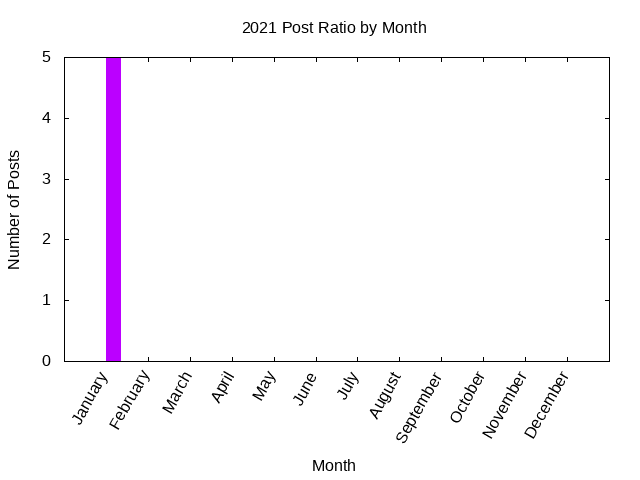
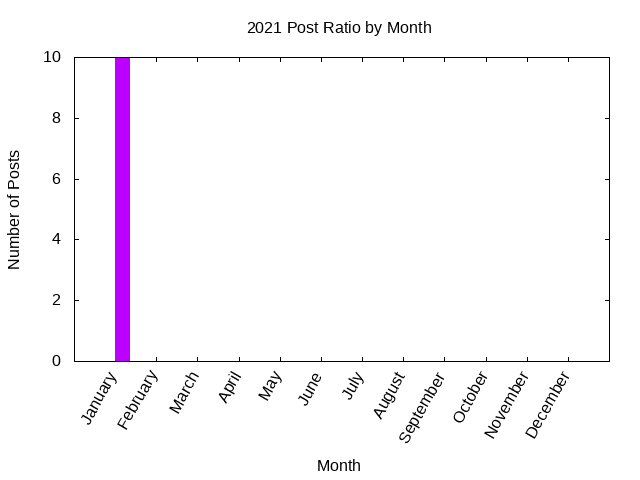
Stats update

diff --git a/_includes/stats/2021.md b/_includes/stats/2021.md
@@ -1,20 +1,23 @@
 <a name="2021" />
 ## 2021 (work in progress)
 
-**5 total posts** have been written on 2021.
-There have been *10 different tags* used, the most
+**10 total posts** have been written on 2021.
+There have been *13 different tags* used, the most
 popular being (sorted by number of posts):
  
-- *raku* (2 posts)  
+- *postgresql* (3 posts)  
+- *raku* (3 posts)  
+- *planet-postgresql-org* (3 posts)  
+- *firefox* (2 posts)  
+- *perl-weekly-challenge* (2 posts)  
+- *linux* (1 posts)  
 - *perl* (1 posts)  
-- *oracle* (1 posts)  
-- *planet-postgresql-org* (1 posts)  
-- *firefox* (1 posts)  
-- *postgresql* (1 posts)  
+- *jekyll* (1 posts)  
 - *java* (1 posts)  
-- *python* (1 posts)  
+- *ruby* (1 posts)  
+- *oracle* (1 posts)  
 - *php* (1 posts)  
-- *perl-weekly-challenge* (1 posts).<br/>
+- *python* (1 posts).<br/>
 <br/>
 The following is the overall 2021 post ratio by month:
 <br/>
@@ -33,7 +36,7 @@ The following is the overall 2021 post ratio by tag (showing max 30 tags):
 
 <div align="right">
 <small>
-Last generated on 2021-01-07 at 14:43
+Last generated on 2021-01-11 at 12:40
 </small>
 </div>
 
